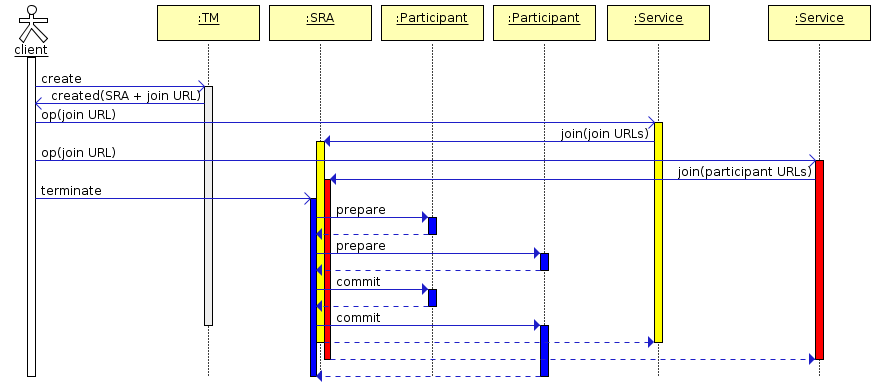
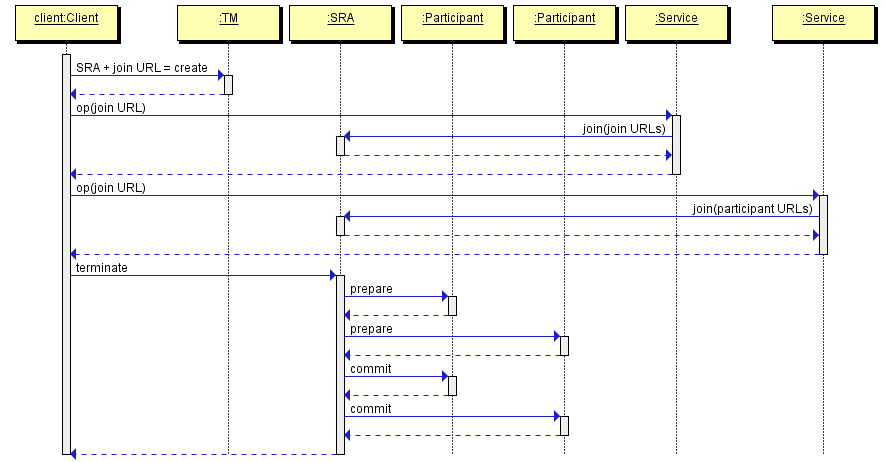
minor text clean
show text description on following line

allow for unavailable participant

forget participant via forget url

Use rollback on for SRA

Updated the SRA sequence diagram

Removed TODO statement

diff --git a/0009-LRA.md b/0009-LRA.md
@@ -137,11 +137,11 @@ this may result in non-atomic behaviour for the overall business activity,
 other activities may be started by the service to attempt to compensate in
 some other manner.
 
-In the model a LRA is tied to the scope of an activity so that when the
+In the model, an LRA is tied to the scope of an activity so that when the
 activity terminates the LRA coordination protocol will be automatically
 performed either to accept or to compensate the work. For example, when a
 user reserves a seat on a flight, the airline reservation centre may take an
-optimistic approach and actually book the seat and debit the users account,
+optimistic approach and actually book the seat and debit the user's account,
 relying on the fact that most of their customers who reserve seats later
 book them; the compensation action for this activity would be to un-book
 the seat and credit the user’s account.
@@ -156,14 +156,16 @@ be completed.
 ### The Model
 
 The model concerns participants and a coordinator. A client starts a new
-LRA via a LRA coordination service. This call creates a new LRA coordinator.
+LRA via a call to an LRA coordination service. This call creates a new LRA coordinator.
 When a business service does work that may have to be later compensated
 for within the scope of the LRA, it enlists a participant with the LRA
 coordinator. Subsequently the client closes or cancels the LRA via the
 coordinator which in turn tells all enlisted participants to either
 complete or compensate:
 
-![LRA Protocol Sequence](./lra.png) The lifecycle of a LRA
+![LRA Protocol Sequence](./lra.png)
+
+The lifecycle of a LRA
 
 The LRA participant will be invoked in the following way by the LRA
 coordinator when the activity terminates:
@@ -192,8 +194,8 @@ coordinator when the activity terminates:
   the compensation actions will be performed in strict sequential
   order since participants are allowed to indicate that the compensation
   is in progress and will complete at some future time. Furthermore a
-  participant can indicate that it failed to compensate in which case
-  it will be periodically retried (out of order).
+  participant can indicate that it failed to compensate, or could be unavailable
+  in which case it will be periodically retried (out of order).
 
 Participants follow a state model:
 <a name="participant-state-model"></a>
@@ -232,14 +234,14 @@ is arrived at by the application will that subset be confirmed; all other
 LRAs will be told to cancel (complete in a failure state).
 
 In the rest of this proposal we specify three different APIs for controlling
-the lifecycle of and participation in LRAs and a forth API for writing participants:
+the lifecycle of and participation in LRAs and a fourth API for writing participants:
 
    1. [CDI Annotations for LRAs](CDI Annotations for LRAs)
    2. [Client API](lra-annotations/src/main/java/org/eclipse/microprofile/lra/client/LRAClientAPI.java)
    3. [REST based description of various resources](Interoperability with other languages)
    4. [Java based participant registration API](#java-based-compensation-registration-api)
 
-This set of APIs means that the specification will usable in a wider variety of systems:
+This set of APIs means that the specification will be useable in a wide variety of systems:
 
    - CDI is the API of choice for MicroProfile;
    - the client API is for use with containers that do not provide CDI;
@@ -1205,7 +1207,7 @@ if it was asked to compensate).
 
 Note that if a participant cannot complete or compensate it must be able
 to report the status until it is told to forget via a `DELETE` request to
-status URL.
+`forget URL`.
 
 ###### Reporting the Participant Status
 
@@ -1222,7 +1224,7 @@ mark it as permanently failed. It will then issue an HTTP `DELETE`
 request to the forget URL. On success the coordinator forgets about 
 the participant (ie it will no longer send any further requests to th
  participant). If the `DELETE` request fails, the recovery system will
-periodically replay delete request.
+periodically replay the delete request.
 
 If a participants' status is reported as `Compensated` or `Completed`
 then the coordinator will forget about the participant (ie will
@@ -1294,15 +1296,17 @@ running action (SRA) are often used interchangeably but the new term SRA is
 preferred. If we want to refer to a JTA transaction then we will always use
 the JTA prefix.
 
-![The architecture](./sra.png) Protocol Actors: clients, services,
-participants, transaction coordinators (SRA) and factory (TM).
+![The architecture](./sra.png)
+
+Protocol Actors: clients, services, participants, transaction coordinators (SRA) and factory (TM).
 
 ## State Transitions
 
 A SRA and two-phase participant go through the state transitions shown below:
 
-![State transitions](./state.png) Coordinator and participant state
-transitions.
+![State transitions](./state.png)
+
+Coordinator and participant state transitions.
 
 Asking a resource to change its state from, say, Active to Committed, may drive
 it through all of the intermediate states and as a result trigger protocol
@@ -1331,8 +1335,7 @@ the participant to completion.
 * Support for the proposal in MicroProfile is primarily based upon the use of
  [CDI annotations](sra-annotations/src/main/java/org/eclipse/microprofile/sra/annotation)
  for controlling the lifecycle of SRAs and Participants.
-* We do also specify an [injectable client API (TODO git push the API
- classes)](sra-annotations/src/main/java/org/eclipse/microprofile/sra/client/SRAClientAPI.java)
+* We do also specify an [injectable client API](sra-annotations/src/main/java/org/eclipse/microprofile/sra/client/SRAClientAPI.java)
  for non CDI based services that do support REST endpoints. And for 
  services that support neither (CDI and REST endpoints) we also specify
  a Java registration API, see the [section below](#Java-based-participant-registration-API)
@@ -1455,25 +1458,25 @@ public @interface SRA {
     boolean terminal() default false;
 
     /**
-     * The cancelOnFamily element can be set to indicate which families of HTTP response codes will
-     * cause the SRA to cancel. By default client errors (4xx codes) and server errors (5xx codes)
-     * will result in cancellation of the SRA.
+     * The rollbackOnFamily element can be set to indicate which families of HTTP response codes will
+     * cause the SRA to rollback. By default client errors (4xx codes) and server errors (5xx codes)
+     * will result in rollback of the SRA.
      *
-     * @return the {@link Response.Status.Family} families that will cause cancellation of the SRA
+     * @return the {@link Response.Status.Family} families that will cause rollback of the SRA
      */
     @Nonbinding
-    Response.Status.Family[] cancelOnFamily() default {
+    Response.Status.Family[] rollbackOnFamily() default {
         Response.Status.Family.CLIENT_ERROR, Response.Status.Family.SERVER_ERROR
     };
 
     /**
-     * The cancelOn element can be set to indicate which  HTTP response codes will cause the SRA
-     * to cancel
+     * The rollbackOn element can be set to indicate which  HTTP response codes will cause the SRA
+     * to rollback
      *
-     * @return the {@link Response.Status} HTTP status codes that will cause cancellation of the SRA
+     * @return the {@link Response.Status} HTTP status codes that will cause rollback of the SRA
      */
     @Nonbinding
-    Response.Status [] cancelOn() default {};
+    Response.Status [] rollbackOn() default {};
 }
 ```
 
@@ -1667,7 +1670,7 @@ Start a LRA and enlist both services
 
 #### Scenario 1:
 
-  Kill the coordinator before closing the LR
+  Kill the coordinator before closing the LRA
   Restart the coordinator which should cause the LRA to be reloaded (from a log in persistent storage)
   Since the LRA is still active recovery should leave it alone
   Close the LRA. For example if you have curl:
